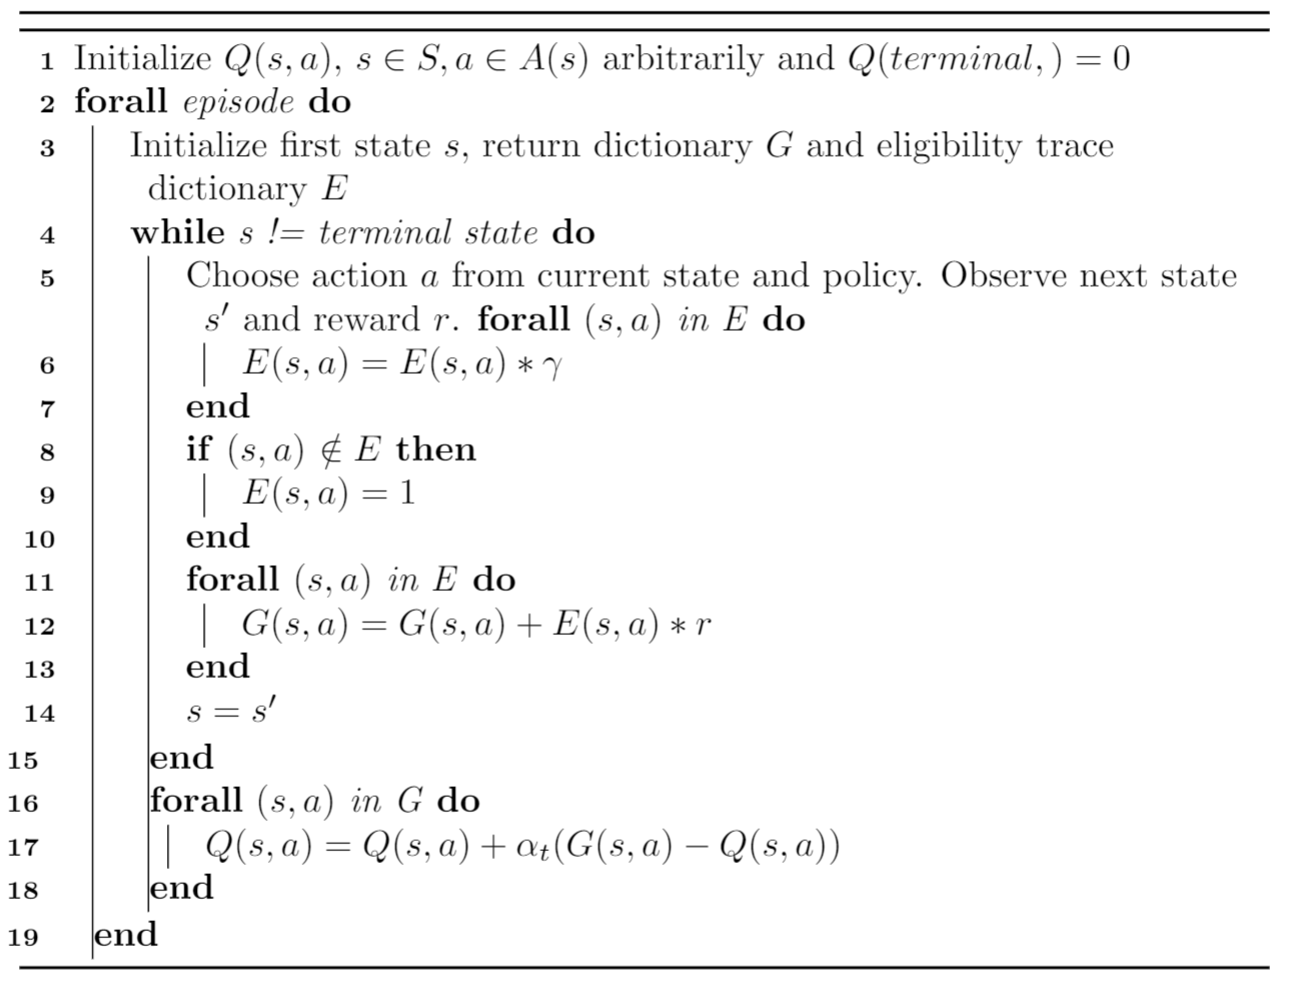
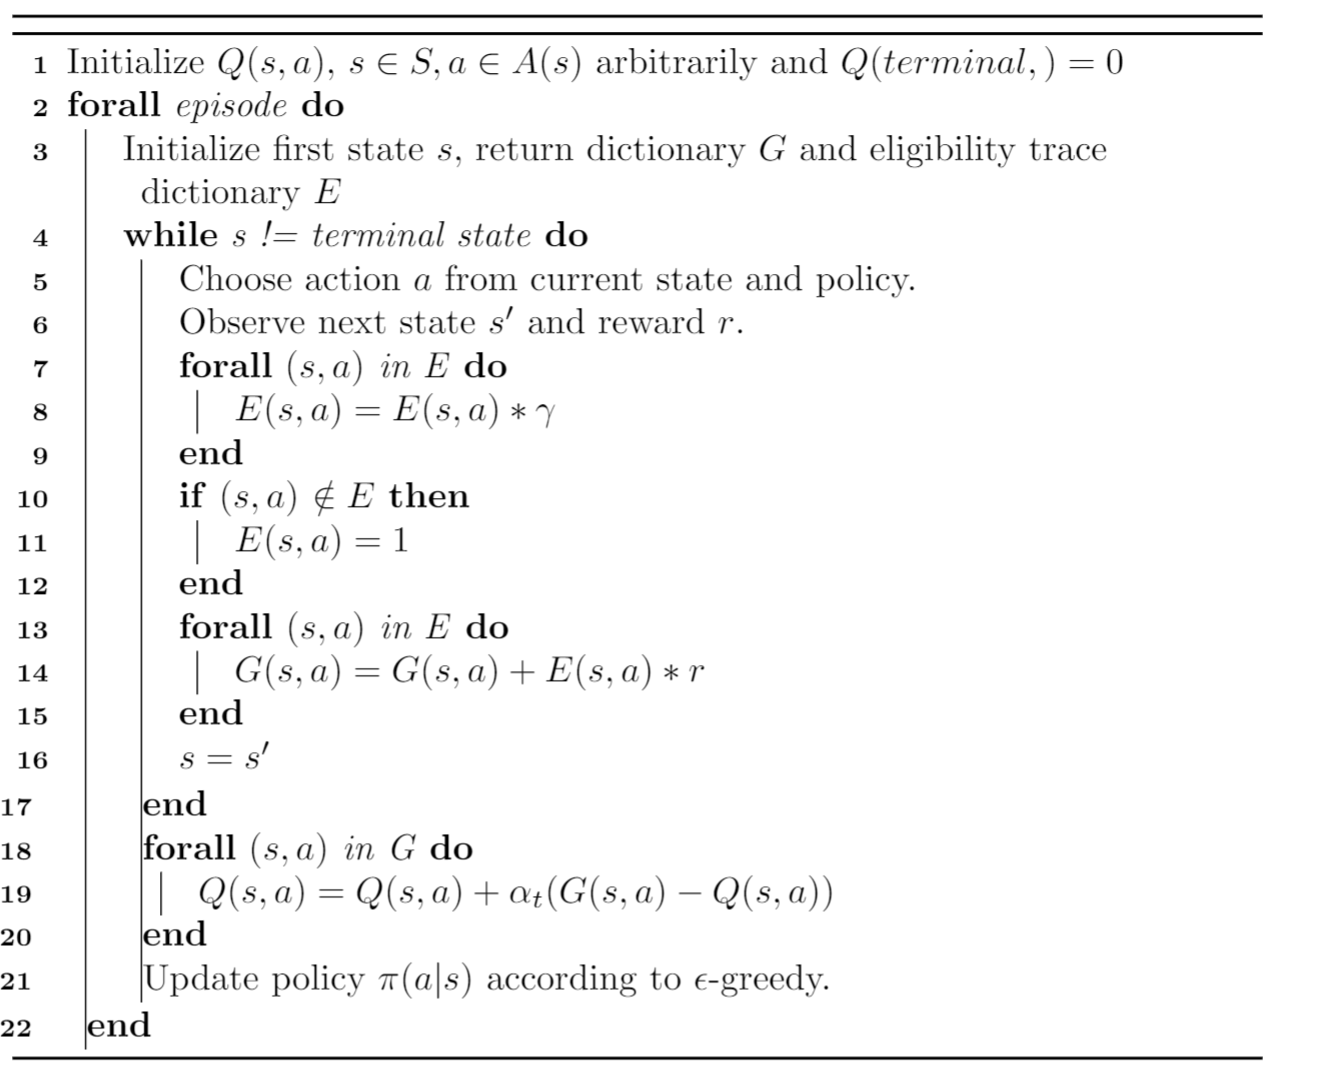
Complete blog

Changed region(s): [[0.0, 0.0, 0.9892, 1.0], [0.7419, 0.25, 0.9583, 0.3125], [0.5255, 0.8125, 0.6491, 0.875]]

diff --git a/blog/2018/rl/solvemdp.html b/blog/2018/rl/solvemdp.html
@@ -140,7 +140,7 @@
         $$ \alpha_t = \frac{1}{N(s_t, a_t)} $$
 
     <p>Intuitively, each $Q(s_t, a_t)$ is an average of return $G_t$ as running sum so far through many episodes, the average can add new member easily by scaling new error with $\alpha_t$. We define average return as running sum like this to be compatible with
-      iterative algorithm. Note that $N(s_t, a_t)$ counts each time agent visit state $s_t$ and do action $a_t$. After each episode, we can update policy following new action function $Q$ by $\epsilon$-greedy scheme:
+      iterative algorithm. Note that $N(s_t, a_t)$ counts every time agent visit state $s_t$ and do action $a_t$. After each episode, we can update policy following new action function $Q$ by $\epsilon$-greedy scheme:
     </p>
         $$ \epsilon = \frac{N_0}{N_0 + N(s_t)}$$
         $$ \pi(a|s) = \begin{cases}
@@ -163,13 +163,57 @@
       <img src="/anindex.github.io/assets/img/mcresult.PNG" alt="drawing" width="500" height="400">
     </p>
 
-
-
     <h4> Table lookup Q: TD($ \lambda $) Sarsa </h4>
 
+    <p>Like MC Control, TD($ \lambda $) Sarsa also learns optimal policy by sampling experiences. However, we does not add scaled error between full return $G_t$ and current $Q(s_t, a_t)$. Instead, intuitively, we move $Q(s_t, a_t)$ toward new bootstrapped $Q$ by applying Bellman equation.
+    We do not need to wait for reaching terminal state of each episode to update $Q(s_t, a_t)$, we update on-the-go whenever we reach state $s_t$ and do action $a_t$. This scheme is more suitable for agents to learn continuous tasks in real world (may have no terminal state or needing immediate reacts).</p>
+
+      $$ Q(s_t, a_t) = Q(s_t, a_t) + \alpha_t(q_t^{\lambda}  - Q(s_t, a_t)) $$
+    where $q_t^{\lambda}$ is a weighted sum n-steps returns $q_t^{(n)}$:
+      $$ q_t^{\lambda} = (1 - \lambda)\sum_{n=1}^{\infty}\lambda^{n-1}q_t^{(n)} $$
+
+    <p>We can think $q_t^{\lambda}$ as an average of close to far bootstrapped returns, it combines the characteristics of MC update and TD(0) update. $q_t^{\lambda}$ conveys how good the state-action pair that agent estimates combines with true sample from enviroment. We can see it more clearly in pseudocode of Backward view Td($\lambda$) Sarsa: </p>
+
+    <p align="center">
+      <img src="/anindex.github.io/assets/img/tdsarsa.PNG" alt="drawing" width="400" height="450">
+    </p>
+
+    <p>I also run TD($\lambda$) Sarsa on Easy21 enviroment with 500000 episodes and $\lambda = 0$, the value function $V$ starts to converge as shown below. I also measure mean square error between $Q$ function learnt from Sarsa and "true" $Q$ function from MC control.</p>
+
+    <p align="center">
+      <img src="/anindex.github.io/assets/img/tdresult.PNG" alt="drawing" width="550" height="400">
+    </p>
+
+    <p align="center">
+      <img src="/anindex.github.io/assets/img/tdsquareerror.PNG" alt="drawing" width="550" height="400">
+    </p>
+
     <h4> Approximated Q: TD($ \lambda $) Sarsa </h4>
+    <p>In the case where the state space of MDP is very large, we could approximate $Q$ by a model. For instance, linear approximation of $Q$ would be features dot model parammeters $Q(s, a) = \phi(s, a)^T\theta$.
+      I would like to apply linear approximation on $Q$ of this simple enviroment to demonstrate how linear function approximation is done. The feature is chose as description in <a href="http://www0.cs.ucl.ac.uk/staff/d.silver/web/Teaching_files/Easy21-Johannes.pdf">Easy21 exercise</a>.
+      With function approximation, we do not update $Q$ directly, because model parammeters now represented the function $Q$. We update model parameters as follow:
+    </p>
+      $$ \theta = \theta + \alpha_t(q_t^{\lambda} - Q(s_t, a_t, \theta))\nabla_{\theta}Q(s_t, a_t, \theta) $$
+    <p> Pseudo code for function approximation of TD($\lambda$) Sarsa is the same as table lookup Q, we just need to replace update rule as specified.</p>
+
+    <p>We will evaluate this algorithm by measuring mean square error between $Q$ function learnt and "true" $Q$ function from MC control.</p>
+
+    <p align="center">
+      <img src="/anindex.github.io/assets/img/approxtdsquareerror.PNG" alt="drawing" width="550" height="400">
+    </p>
 
     <h3> Discussion </h3>
+    <p>We usually only use MC Control as a base-line for computing optimal $Q$ function for any MDP. MC Control has great learning characteristics: </p>
+    <ul>
+      <li>Unbiased estimation of Q (average of returns is unbiased).</li>
+      <li>For large enough episodes, $Q$ function computed by MC Control will converge to minimum mean square error of true $Q$ function.</li>
+    </ul>
+    <p>However, MC Control $Q$ estimation has large variance, it also needs large amount of samples to start converging and it's not suitable for online learning. In reality, one episode may never end, TD($\lambda$) Sarsa is the better option for online learning, because TD($\lambda$) Sarsa
+    uses bootstrapped estimation of current state Q (backward view TD no need to wait for end of episode). TD($\lambda$) $Q$ estimation converges to maximum likelihood estimation of environment MDP and has much lower variance compared to MC control. </p>
+
+    <p>When the state space is large, it is essential that we must downsample approximation state space to ensure tractability. However, as can be seen in evaluation, in exchange of speed as expected, approximated $Q$ function is hard to converge and introduces variance. Downsampling MDP like this may not capture the true characteristics
+    of environment.</p>
+    <p>Next blogs I will present about Policy-based algorithms in some openAI gym environment. These algorithms are promising for large state space with uncertainties in real world application.</p>
 
   </article>
 
